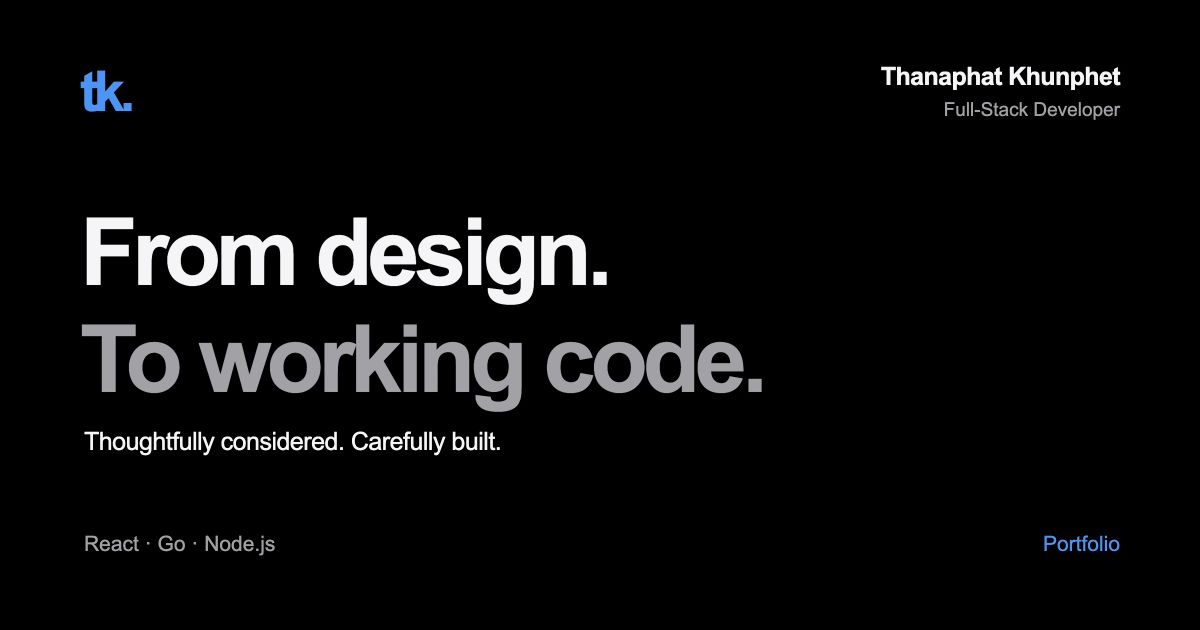
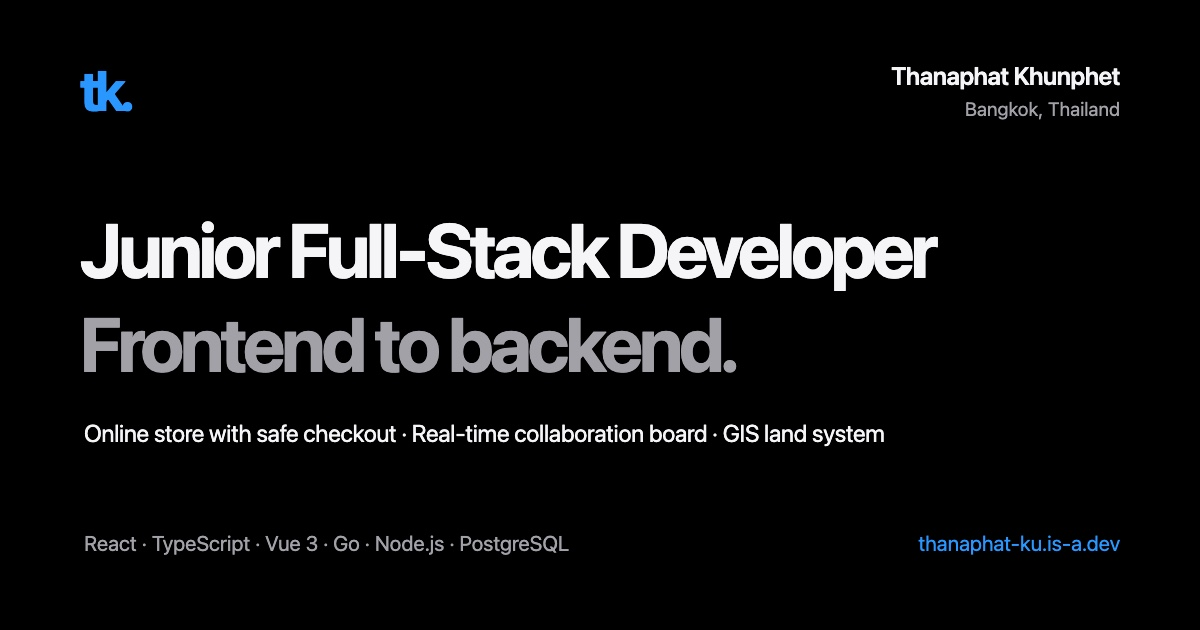
Update social share preview image and OpenGraph metadata

diff --git a/index.html b/index.html
@@ -21,20 +21,20 @@
     <meta property="og:type" content="website" />
     <meta property="og:site_name" content="Thanaphat Khunphet — Portfolio" />
     <meta property="og:url" content="https://thanaphat-ku.is-a.dev/" />
-    <meta property="og:title" content="Thanaphat Khunphet — Full-Stack Developer" />
-    <meta property="og:description" content="A full-stack developer connecting design and engineering. Explore web applications, experience, and skills in React, Go, and Node.js." />
+    <meta property="og:title" content="Thanaphat Khunphet — Junior Full-Stack Developer" />
+    <meta property="og:description" content="Full-stack developer who builds web apps end to end: a Go + PostgreSQL online store with safe checkout, a real-time collaborative board, and a GIS land-records system." />
     <meta property="og:image" content="https://thanaphat-ku.is-a.dev/share-preview.jpg" />
     <meta property="og:image:type" content="image/jpeg" />
     <meta property="og:image:width" content="1200" />
     <meta property="og:image:height" content="630" />
-    <meta property="og:image:alt" content="Thanaphat Khunphet — Full-Stack Developer. From design. To working code." />
+    <meta property="og:image:alt" content="Thanaphat Khunphet — Junior Full-Stack Developer. Frontend to backend." />
 
     <!-- Twitter -->
     <meta name="twitter:card" content="summary_large_image" />
-    <meta name="twitter:title" content="Thanaphat Khunphet — Full-Stack Developer" />
-    <meta name="twitter:description" content="A full-stack developer connecting design and engineering. Explore web applications, experience, and skills in React, Go, and Node.js." />
+    <meta name="twitter:title" content="Thanaphat Khunphet — Junior Full-Stack Developer" />
+    <meta name="twitter:description" content="Full-stack developer who builds web apps end to end: a Go + PostgreSQL online store with safe checkout, a real-time collaborative board, and a GIS land-records system." />
     <meta name="twitter:image" content="https://thanaphat-ku.is-a.dev/share-preview.jpg" />
-    <meta name="twitter:image:alt" content="Thanaphat Khunphet — Full-Stack Developer. From design. To working code." />
+    <meta name="twitter:image:alt" content="Thanaphat Khunphet — Junior Full-Stack Developer. Frontend to backend." />
 
     <script type="application/ld+json">
       {
